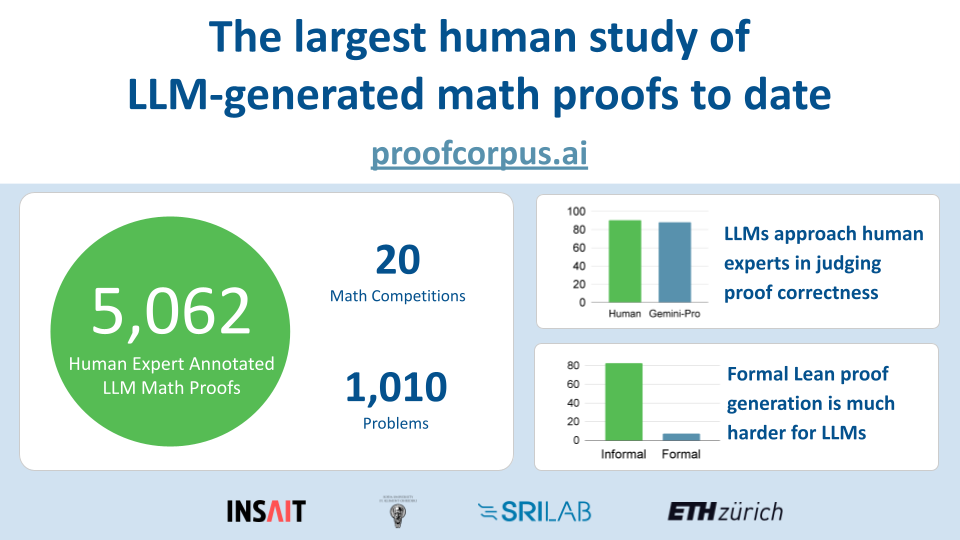
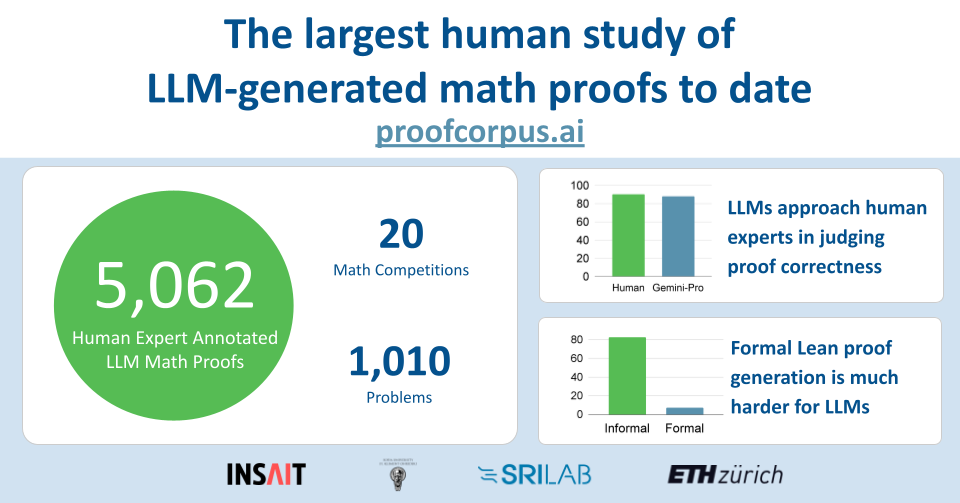
update

diff --git a/index.html b/index.html
@@ -7,7 +7,7 @@
   <meta property="description" content="The Open Proof Corpus is a large-scale, human-validated dataset comprising over 5000 LLM-generated proofs across more than 1000 problems."/>
   <meta property="og:image" content="static/images/preview.png">
   <meta property="og:image:width" content="960"/>
-  <meta property="og:image:height" content="540"/>
+  <meta property="og:image:height" content="504"/>
   <meta name="keywords" content="Math, LLM, Olympiads, Competitions, Leaderboards, AI, Machine Learning, Grading"/>
   <link rel="icon" type="image/x-icon" href="static/images/favicon.ico">
 
